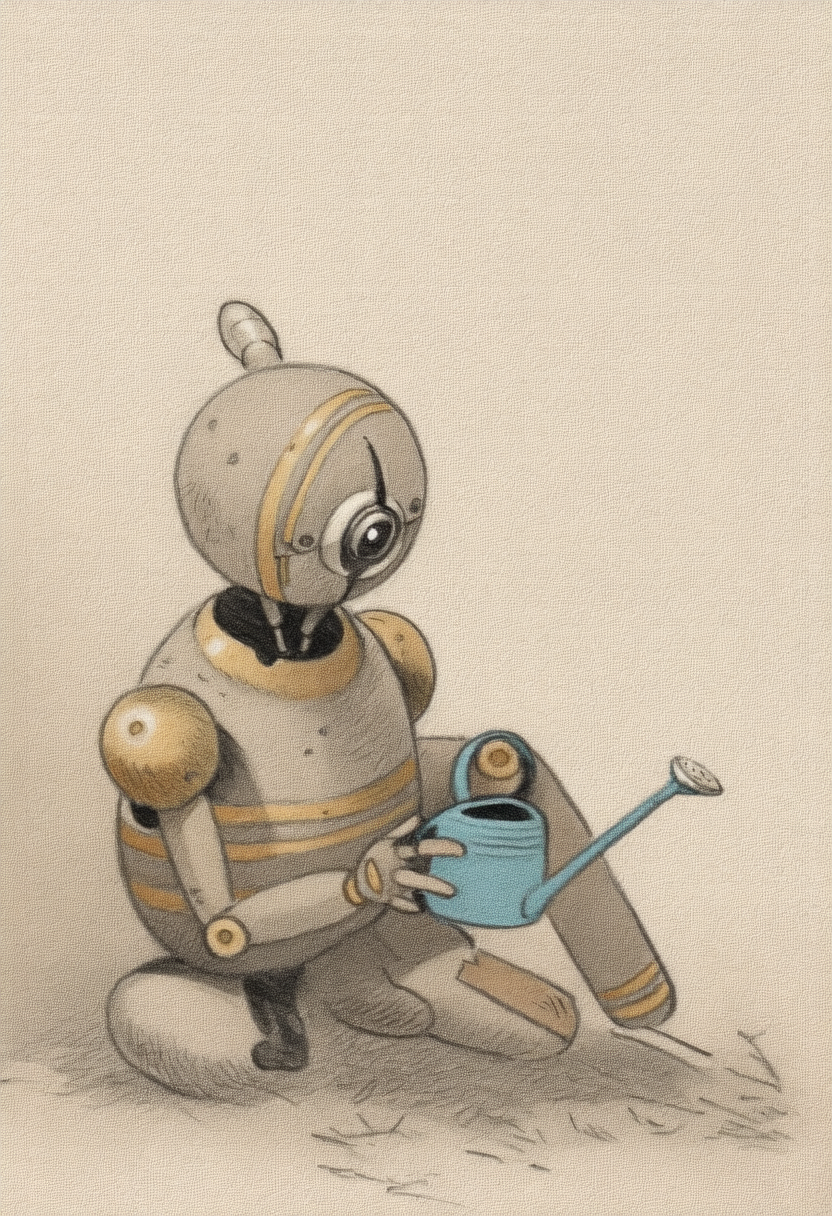
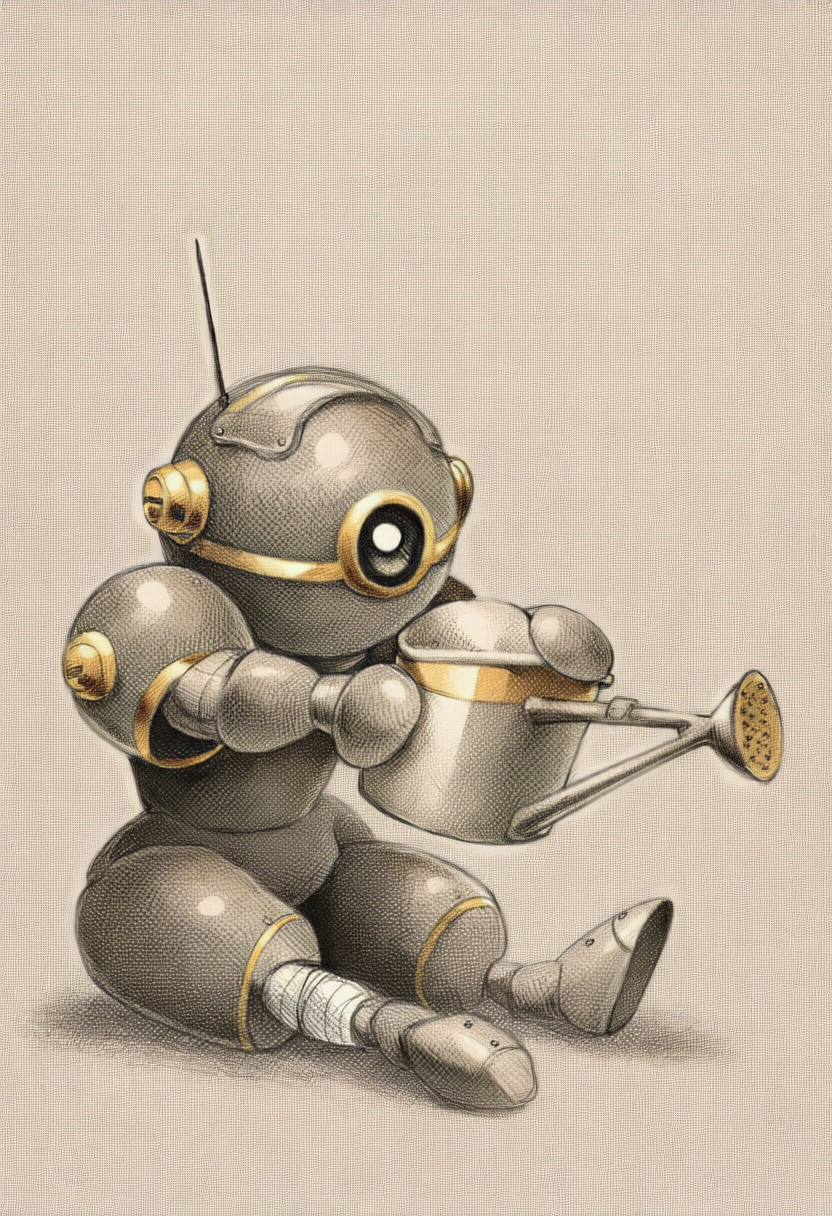
Character sheets v4: Danbooru tag prompts checked against danbooru-diffusion-prompt-builder
Tag data from https://github.com/wfjsw/danbooru-diffusion-prompt-builder.

Claude-Session: https://claude.ai/code/session_01AsD7CcnWD46sZwwufpHp7b

diff --git a/illustration/tools/characters_v4.py b/illustration/tools/characters_v4.py
@@ -1,0 +1,51 @@
+"""角色设定图 v4：在 v3（handraw-style FB-047 绘本画风 + Vibe Transfer）基础上，
+把提示词改写为标准 Danbooru 标签。标签用 danbooru-diffusion-prompt-builder（https://github.com/wfjsw/danbooru-diffusion-prompt-builder）
+的标签库核对，data/danbooru_tags_zh.json 是从中导出的 {标签: [中文名, 分类, 帖子数]}。
+用法：python3 characters_v4.py [角色名...] 输出目录      python3 characters_v4.py --check   # 列出每个标签是否在标签库中
+"""
+import sys, os, json, re
+sys.path.insert(0, os.path.dirname(__file__))
+from nai_generate import gen
+
+HERE = os.path.dirname(os.path.abspath(__file__))
+VIBE = os.path.join(HERE, "..", "style_refs", "FB-047_arsenault.nai45.vibe")
+# spot color = 黑白画中的少量颜色，正好对应“铅笔灰底 + 单一点缀色”
+STYLE_V4 = ("traditional media, graphite (medium), colored pencil (medium), watercolor pencil (medium), hatching (texture), "
+            "1.3::spot color::, limited palette, muted color, negative space, simple background, masterpiece, best quality")
+# 标签库中 NovelAI 预设“Low Quality + Bad Anatomy”，另加画风排除项
+NEG_V4 = ("lowres, bad anatomy, bad hands, text, error, missing fingers, extra digit, fewer digits, cropped, worst quality, "
+          "low quality, normal quality, jpeg artifacts, signature, watermark, username, blurry, "
+          "3d, realistic, photo, anime screencap, colorful, multicolored")
+
+CHARS = {
+    "sylvia": "1girl, solo, teenage, long hair, wavy hair, messy hair, bangs, tired, light smile, determined, "
+              "1.4::orange jacket::, oversized clothes, open jacket, sleeves pushed up, headphones around neck, "
+              "bandaged hands, holding screwdriver, patch, badge, jeans, sneakers, full body, standing",
+    "father": "1boy, solo, mature male, middle-aged, grey hair, streaked hair, short hair, glasses, facial hair, stubble, tired, serious, "
+              "1.5::blue cardigan::, collared shirt, lanyard, id card, holding notebook, holding mug, milk, full body, standing",
+    "alice":  "1girl, solo, ghost, transparent, glowing, 1.4::yellow theme::, golden light, long hair, floating hair, light smile, "
+              "half-closed eyes, white dress, pendant, vase, petals, flower, floating, full body",
+    "hk7":    "no humans, solo, 1.4::humanoid robot::, old, damaged, round head, one-eyed, camera, antenna, "
+              "1.4::gold trim::, yellow stripes, mechanical joints, bandaged leg, sitting, holding watering can, full body",
+    "ethan":  "1boy, solo, young man, short hair, messy hair, black hair, smile, open mouth, "
+              "1.4::aqua shirt::, collared shirt, sleeves rolled up, lanyard, id card, goggles on head, "
+              "holding paper, chart, full body, standing",
+    "meridian": "no humans, 1.6::colossal faceless human silhouette, head and shoulders::, silhouette, faceless, 1.4::white sun::, halo, sun symbol, "
+                "1.7::dark blue night sky::, blue theme, starry sky, power lines, building, cityscape, horizon, wide shot",
+}
+
+def check():
+    idx = json.load(open(os.path.join(HERE, "data", "danbooru_tags_zh.json")))
+    for name, prompt in [("STYLE", STYLE_V4)] + list(CHARS.items()):
+        tags = [re.sub(r"\d\.\d::|::", "", t).strip() for t in prompt.split(",")]
+        print(f"[{name}]", "  ".join(f"{t}({idx[t][0]})" if t in idx else f"{t}(?)" for t in tags if t))
+
+if __name__ == "__main__":
+    if "--check" in sys.argv: check(); sys.exit()
+    out = sys.argv[-1]; names = sys.argv[1:-1] or list(CHARS)
+    os.makedirs(out, exist_ok=True)
+    n_each = int(os.environ.get("N_EACH", 3)); strength = float(os.environ.get("VIBE_STRENGTH", 0.5))
+    for n in names:
+        w, h = (1216, 832) if n == "meridian" else (832, 1216)
+        for i in range(1, n_each + 1):
+            gen(CHARS[n], f"{out}/{n}_{i}.png", w, h, style=STYLE_V4, neg=NEG_V4, vibes=[(VIBE, strength)])

diff --git a/illustration/novelai-prompts.md b/illustration/novelai-prompts.md
@@ -157,7 +157,7 @@ limited palette, flat color, cut-paper style, layered paper, graphic shapes, sha
 
 ---
 
-## 八、角色设定图 v3（手绘绘本版，当前采用）
+## 八、角色设定图 v3（手绘绘本版，自然语言提示词；已被 v4 取代，子午线仍沿用）
 
 风格来源：[handraw-style](https://github.com/yang0/handraw-style)（作者 yang0，MIT + 署名要求）风格库 **FB-047 · Isabelle Arsenault Poetic Pencil & Gouache Storybook**（参考作者：Isabelle Arsenault）。
 选择理由：米白纸上的铅笔灰底 + 单一点缀色，克制、安静、带一点忧伤，正好让每个角色的性格配色成为画面里唯一的颜色。
@@ -165,7 +165,7 @@ limited palette, flat color, cut-paper style, layered paper, graphic shapes, sha
 - NovelAI 不在该库的已校准模型内，按其规则必须垫参考图。这里把库内样图（已裁去署名文字）存为 [`style_refs/FB-047_arsenault.png`](style_refs/FB-047_arsenault.png)，编码为 Vibe 后通过 Vibe Transfer 只迁移画风，强度 0.5–0.6。
 - 提示词与参数见 [`tools/characters_v3.py`](tools/characters_v3.py)。参考图的暖米色会压住冷色和金色，点缀色需要 `1.5::` 以上权重。
 
-![角色总览 v3](characters/_overview.jpg)
+![角色总览 v3](characters/v3/_overview.jpg)
 
 | 角色 | 点缀色 | Vibe 强度 | Seed |
 |---|---|---|---|
@@ -175,3 +175,27 @@ limited palette, flat color, cut-paper style, layered paper, graphic shapes, sha
 | HK-7 | 黄铜金（条纹、关节） | 0.5 | 2668690449 |
 | 伊桑 | 青绿（衬衫） | 0.5 | 1770778540 |
 | 子午线 | 深靛夜空 + 冷白日轮 | 0.5 | 1202646189 |
+
+---
+
+## 九、角色设定图 v4（绘本画风 + 标准 Danbooru 标签，当前采用）
+
+NovelAI 的图像模型是按 Danbooru 标签训练的，所以 v4 把 v3 的英文长句改写为标准标签。标签用 [danbooru-diffusion-prompt-builder](https://github.com/wfjsw/danbooru-diffusion-prompt-builder)（标签超市 tags.novelai.dev）的标签库核对，导出为 [`tools/data/danbooru_tags_zh.json`](tools/data/danbooru_tags_zh.json)（标签 → 中文名、分类、帖子数）。画风与 v3 相同（FB-047 参考图 + Vibe Transfer，强度 0.5）。
+提示词见 [`tools/characters_v4.py`](tools/characters_v4.py)，`python3 tools/characters_v4.py --check` 可列出每个标签的中文释义，库中没有的标记为 `?`。
+
+关键发现：
+- 标签库中的 `spot color`（黑白画中的少量颜色）正好对应“铅笔灰底 + 单一点缀色”，配合服装颜色标签（`orange jacket`、`blue cardigan`、`aqua shirt`、`gold trim`），点缀色比 v3 稳定得多，权重也不用加得那么高。
+- 负面提示词改用标签库里的 NovelAI 预设“Low Quality + Bad Anatomy”。
+- 字面标签会被当成实物：`rabbit` 画出了真兔子，已删除。
+- 子午线这种抽象概念，纯标签画不出来：`giant` 不出人形，加上 `dark blue night sky` 后只剩一个巨大的月亮。所以子午线**继续沿用 v3 自然语言版**。
+
+![角色总览 v4](characters/_overview.jpg)
+
+| 角色 | 版本 | Seed |
+|---|---|---|
+| 西尔维亚 | v4 | 3620746427 |
+| 父亲 | v4 | 3719933818 |
+| 爱丽丝 | v4 | 3234635755 |
+| HK-7 | v4 | 2177387971 |
+| 伊桑 | v4 | 3293825572 |
+| 子午线 | v3（见第八节） | 1202646189 |
